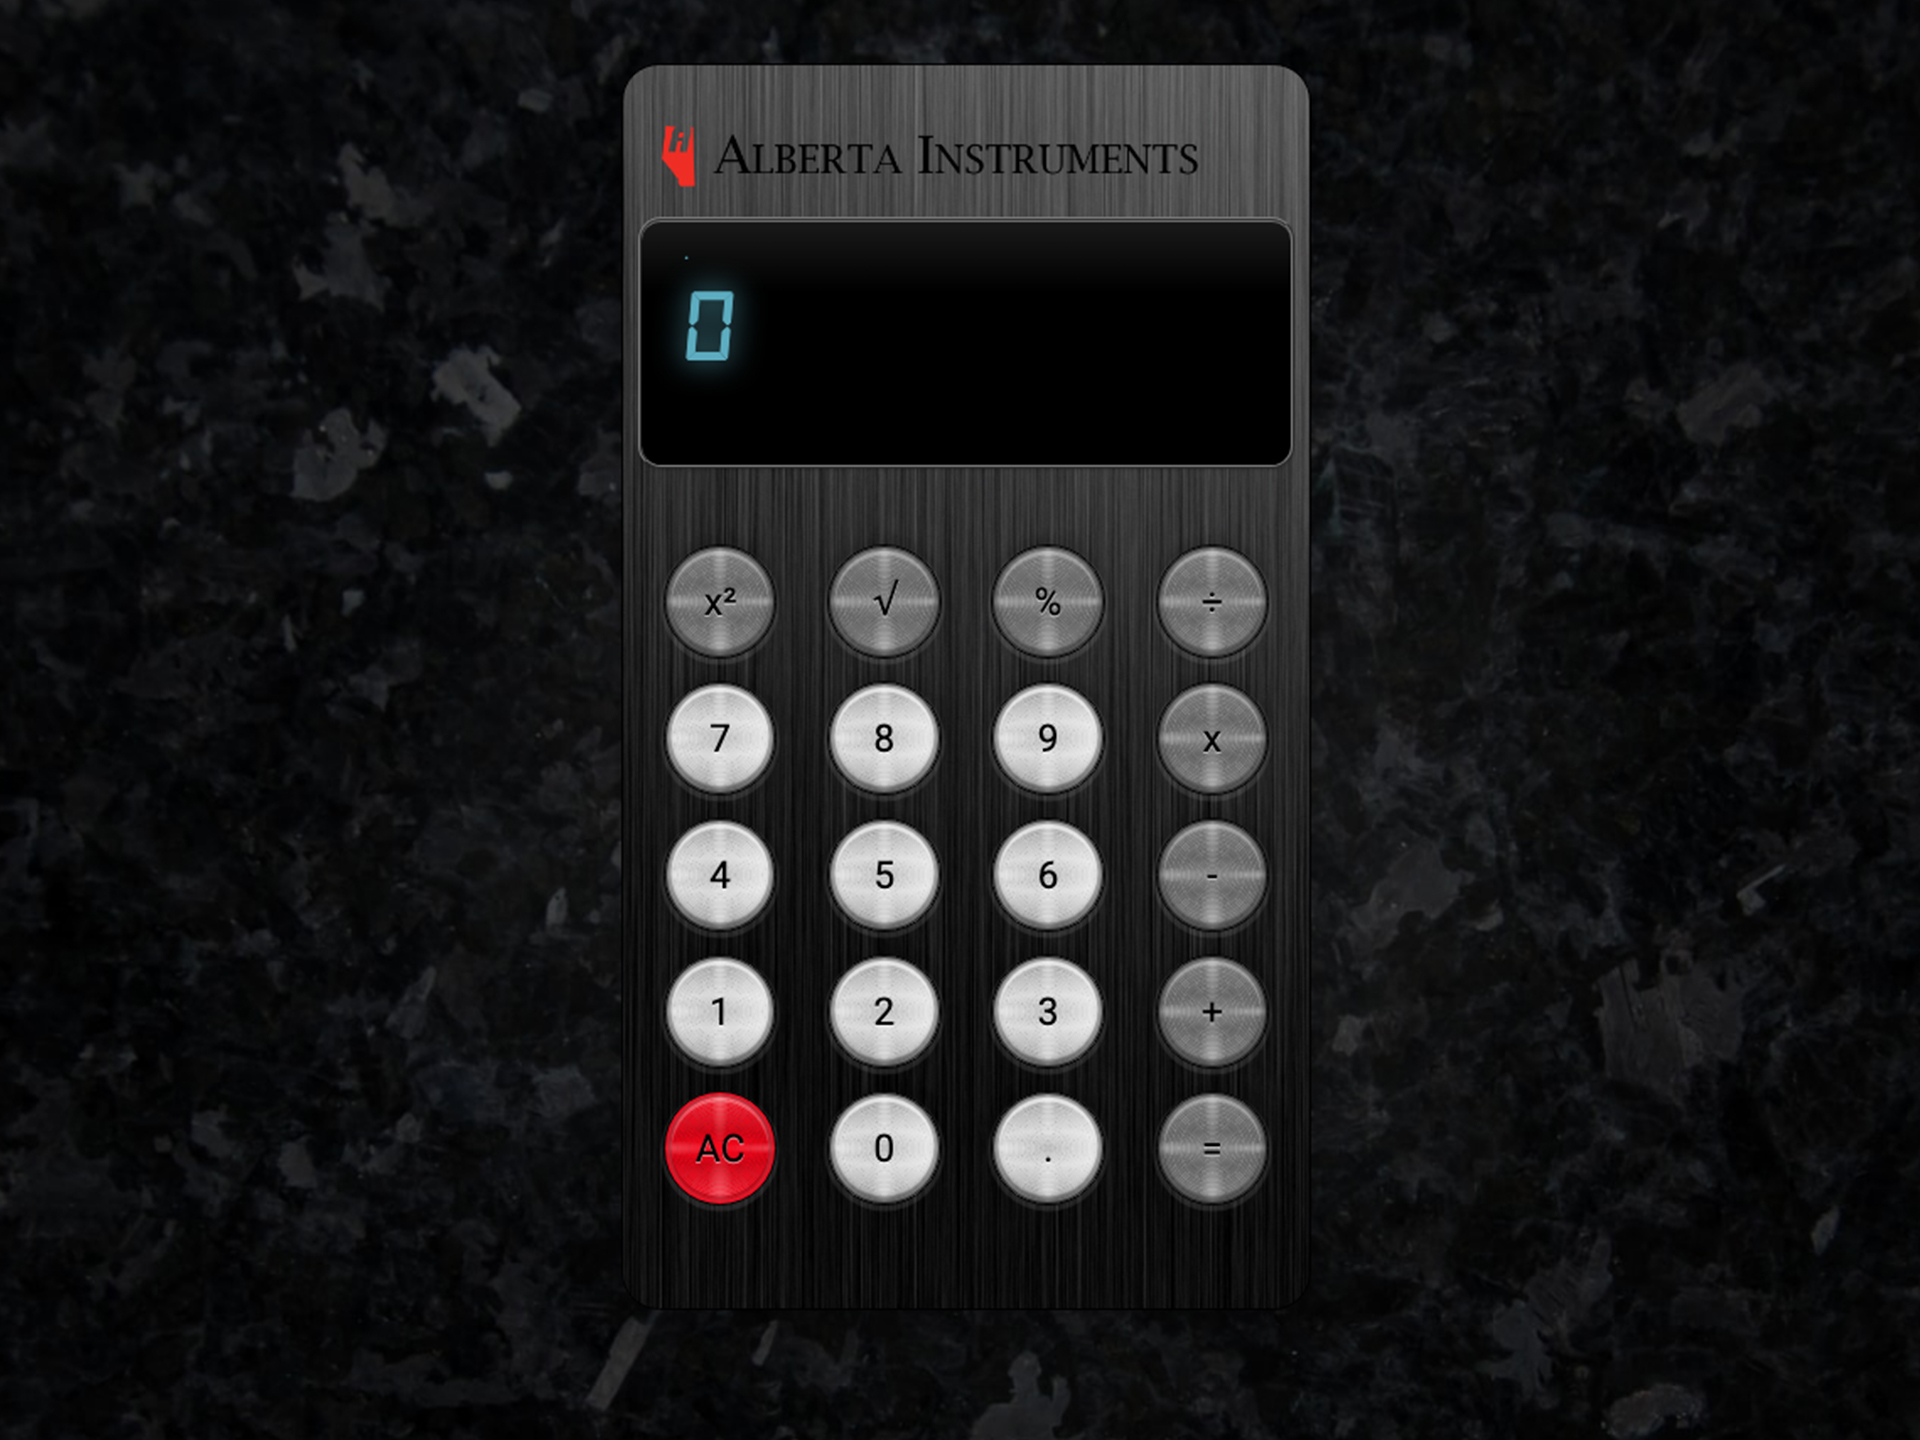
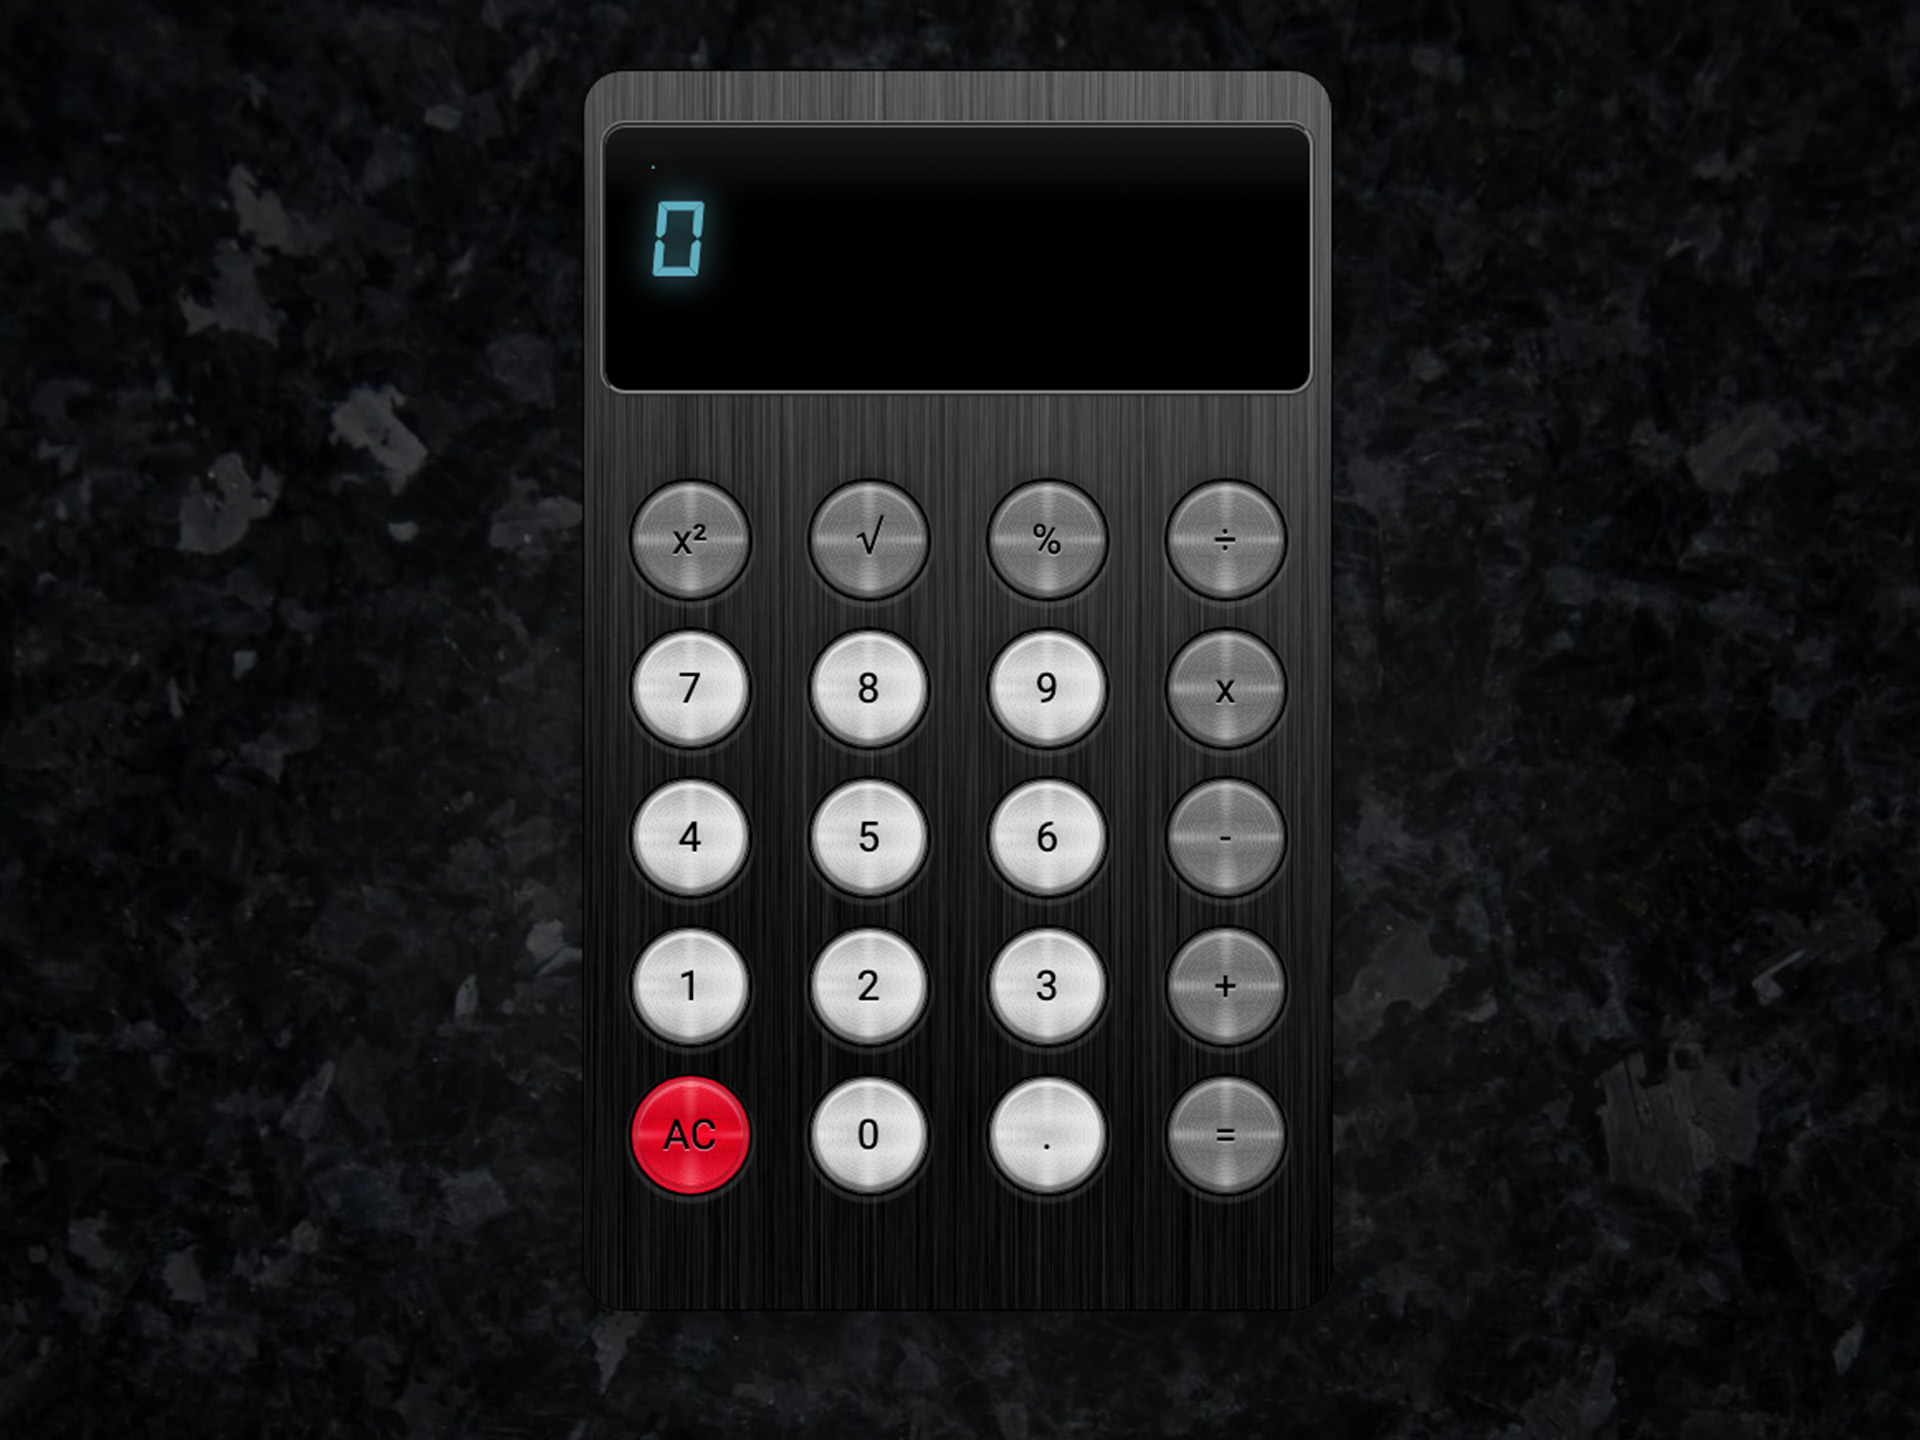
Calculator project update

diff --git a/resources/views/coding/calculator/calculatorApp.blade.php b/resources/views/coding/calculator/calculatorApp.blade.php
@@ -13,7 +13,7 @@
 
       <div id="calculator" class="gloss calculator">
 
-<div class="logo"><img src="img/calc/abi.png"></div>
+        <!-- <div class="logo"><img src="img/calc/abi.png"></div> -->
 
         <!--Calculator display  -->
         <div class="top-display">
